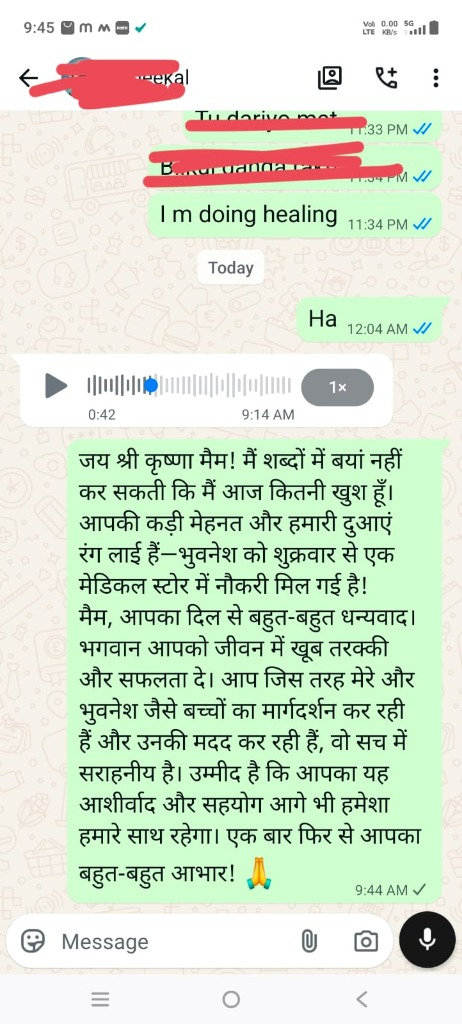
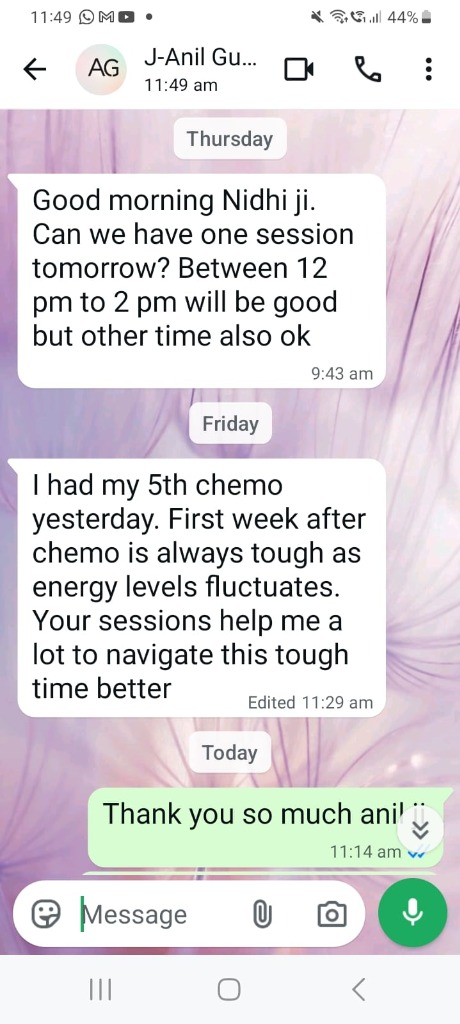
Replace testimonial 3 with Anil resilience and recovery testimonial

diff --git a/index.html b/index.html
@@ -290,30 +290,30 @@
           </div>
         </div>
 
-        <!-- Testimonial 3: Mother's Gratitude (Overcoming Chronic Anxiety & Starting New Career) -->
+        <!-- Testimonial 3: Severe Health & Energy Recovery Support -->
         <div class="bg-slate-50 rounded-2xl border border-slate-200 p-4 flex flex-col justify-between shadow-sm hover:border-gut-400 transition">
           <div>
             <div class="flex items-center justify-between mb-3">
               <span class="bg-purple-100 text-purple-800 text-[11px] font-bold px-2.5 py-0.5 rounded-full">
-                ✔ Anxiety Overcome & Life Restored
+                ✔ Deep Mental Resilience & Healing
               </span>
               <span class="text-xs text-slate-400">Verified WhatsApp</span>
             </div>
 
             <div class="rounded-xl overflow-hidden border border-slate-300 bg-white cursor-pointer testimonial-img" onclick="openImageModal('/images/testimonials/testimonial-3.jpg')">
-              <img src="/images/testimonials/testimonial-3.jpg" alt="Mother's Gratitude Testimonial" class="w-full h-auto object-cover max-h-72 object-top">
+              <img src="/images/testimonials/testimonial-3.jpg" alt="Health Recovery and Resilience Testimonial" class="w-full h-auto object-cover max-h-72 object-top">
             </div>
 
             <div class="mt-4">
               <p class="text-xs font-bold text-slate-800 uppercase tracking-wide">Key Breakthrough:</p>
               <p class="text-xs sm:text-sm text-slate-700 mt-1 leading-relaxed">
-                <em>"I cannot express in words how happy I am today! Your hard work and guidance paid off — Bhuvanesh has gained confidence and started his job at a medical store. The way you guide and heal children like him is truly commendable. Heartfelt gratitude!"</em>
+                <em>"I had my 5th chemo yesterday. First week after chemo is always tough as energy levels fluctuate. Your sessions help me a lot to navigate this tough time better."</em>
               </p>
             </div>
           </div>
 
           <div class="mt-4 pt-3 border-t border-slate-200 text-xs text-slate-500 flex items-center justify-between">
-            <span class="font-semibold text-slate-800">Mother of Bhuvanesh</span>
+            <span class="font-semibold text-slate-800">Anil G. (Navigating Critical Recovery)</span>
             <button onclick="openImageModal('/images/testimonials/testimonial-3.jpg')" class="text-gut-600 font-bold hover:underline">Zoom 🔍</button>
           </div>
         </div>
